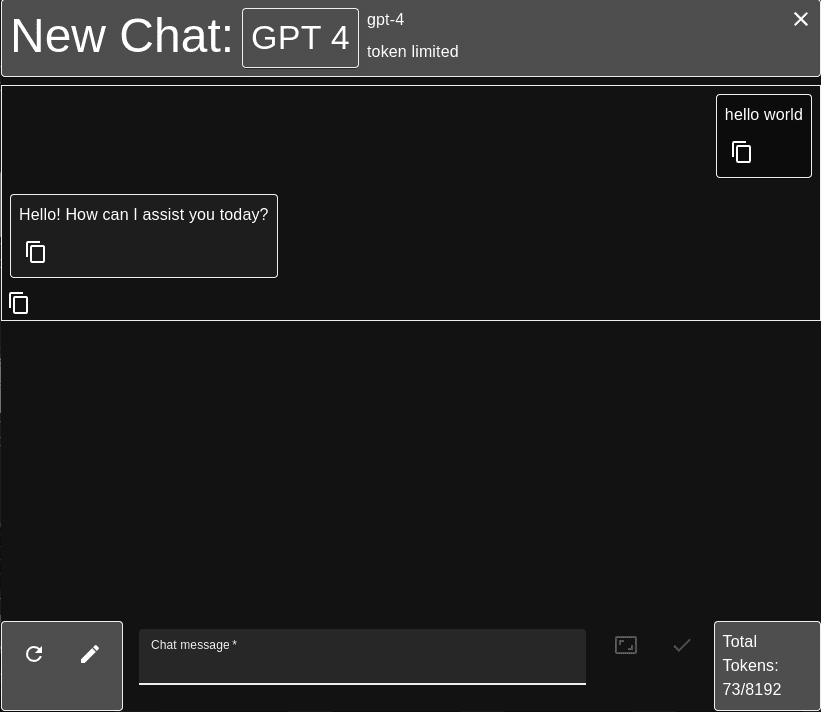
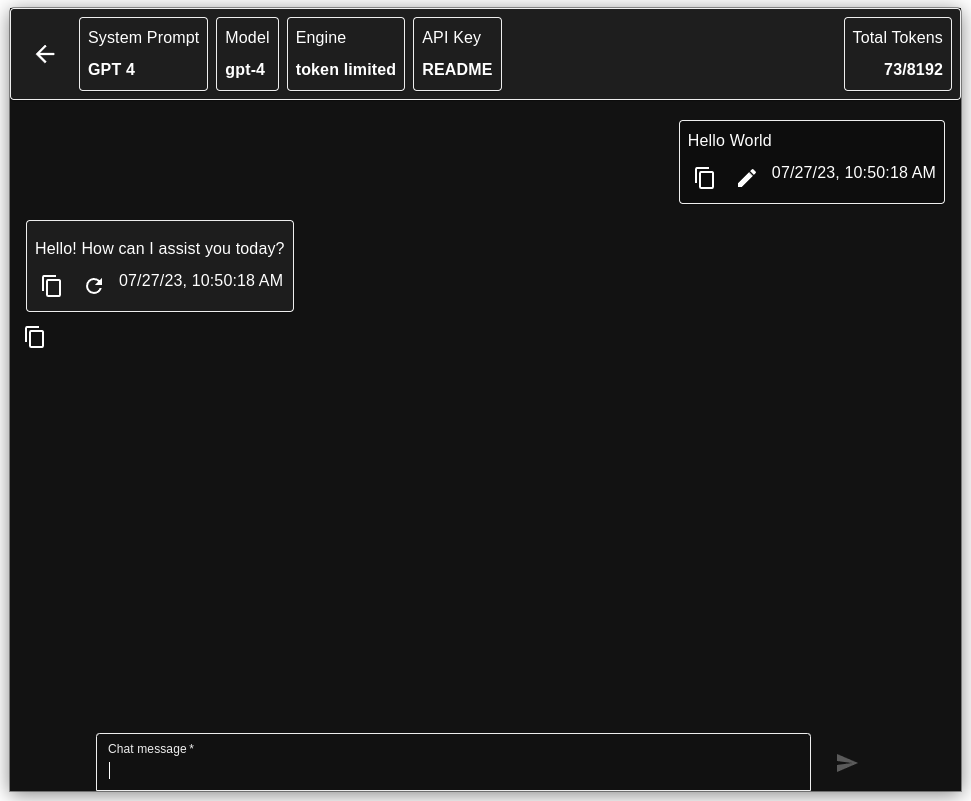
changelog readme zustand

Changed region(s): [[0.0, 0.0, 1.0, 1.0], [0.1827, 0.8961, 0.3045, 0.927], [0.7308, 0.8961, 0.7917, 0.927]]

diff --git a/src/core/zustand/index.js b/src/core/zustand/index.js
@@ -35,6 +35,6 @@ export const useStore = create(() => {
     token_count: 0,
 
     // true if not a release build
-    devMode: true
+    devMode: false
   };
 });

diff --git a/README.md b/README.md
@@ -1,6 +1,6 @@
 # Skyway
 
-> A cross-platform, desktop, ChatGPT-esque interface featuring encryption and custom system prompts
+> A desktop chatbot interface featuring encryption and custom system prompts
 
 [![License: MIT](https://img.shields.io/badge/License-MIT-yellow.svg)](https://opensource.org/licenses/MIT)
 

diff --git a/changelog.md b/changelog.md
@@ -1,5 +1,13 @@
 # Changelog
 
+## 1.1.0
+
+- UI evolution
+- Markdown / code syntax highlighting in AI responses
+- Messages are timestamped
+- Optional input prefils for prompts
+- User can store multiple API keys and switch between them
+
 ## 1.0.1
 
 - UI cleanup
